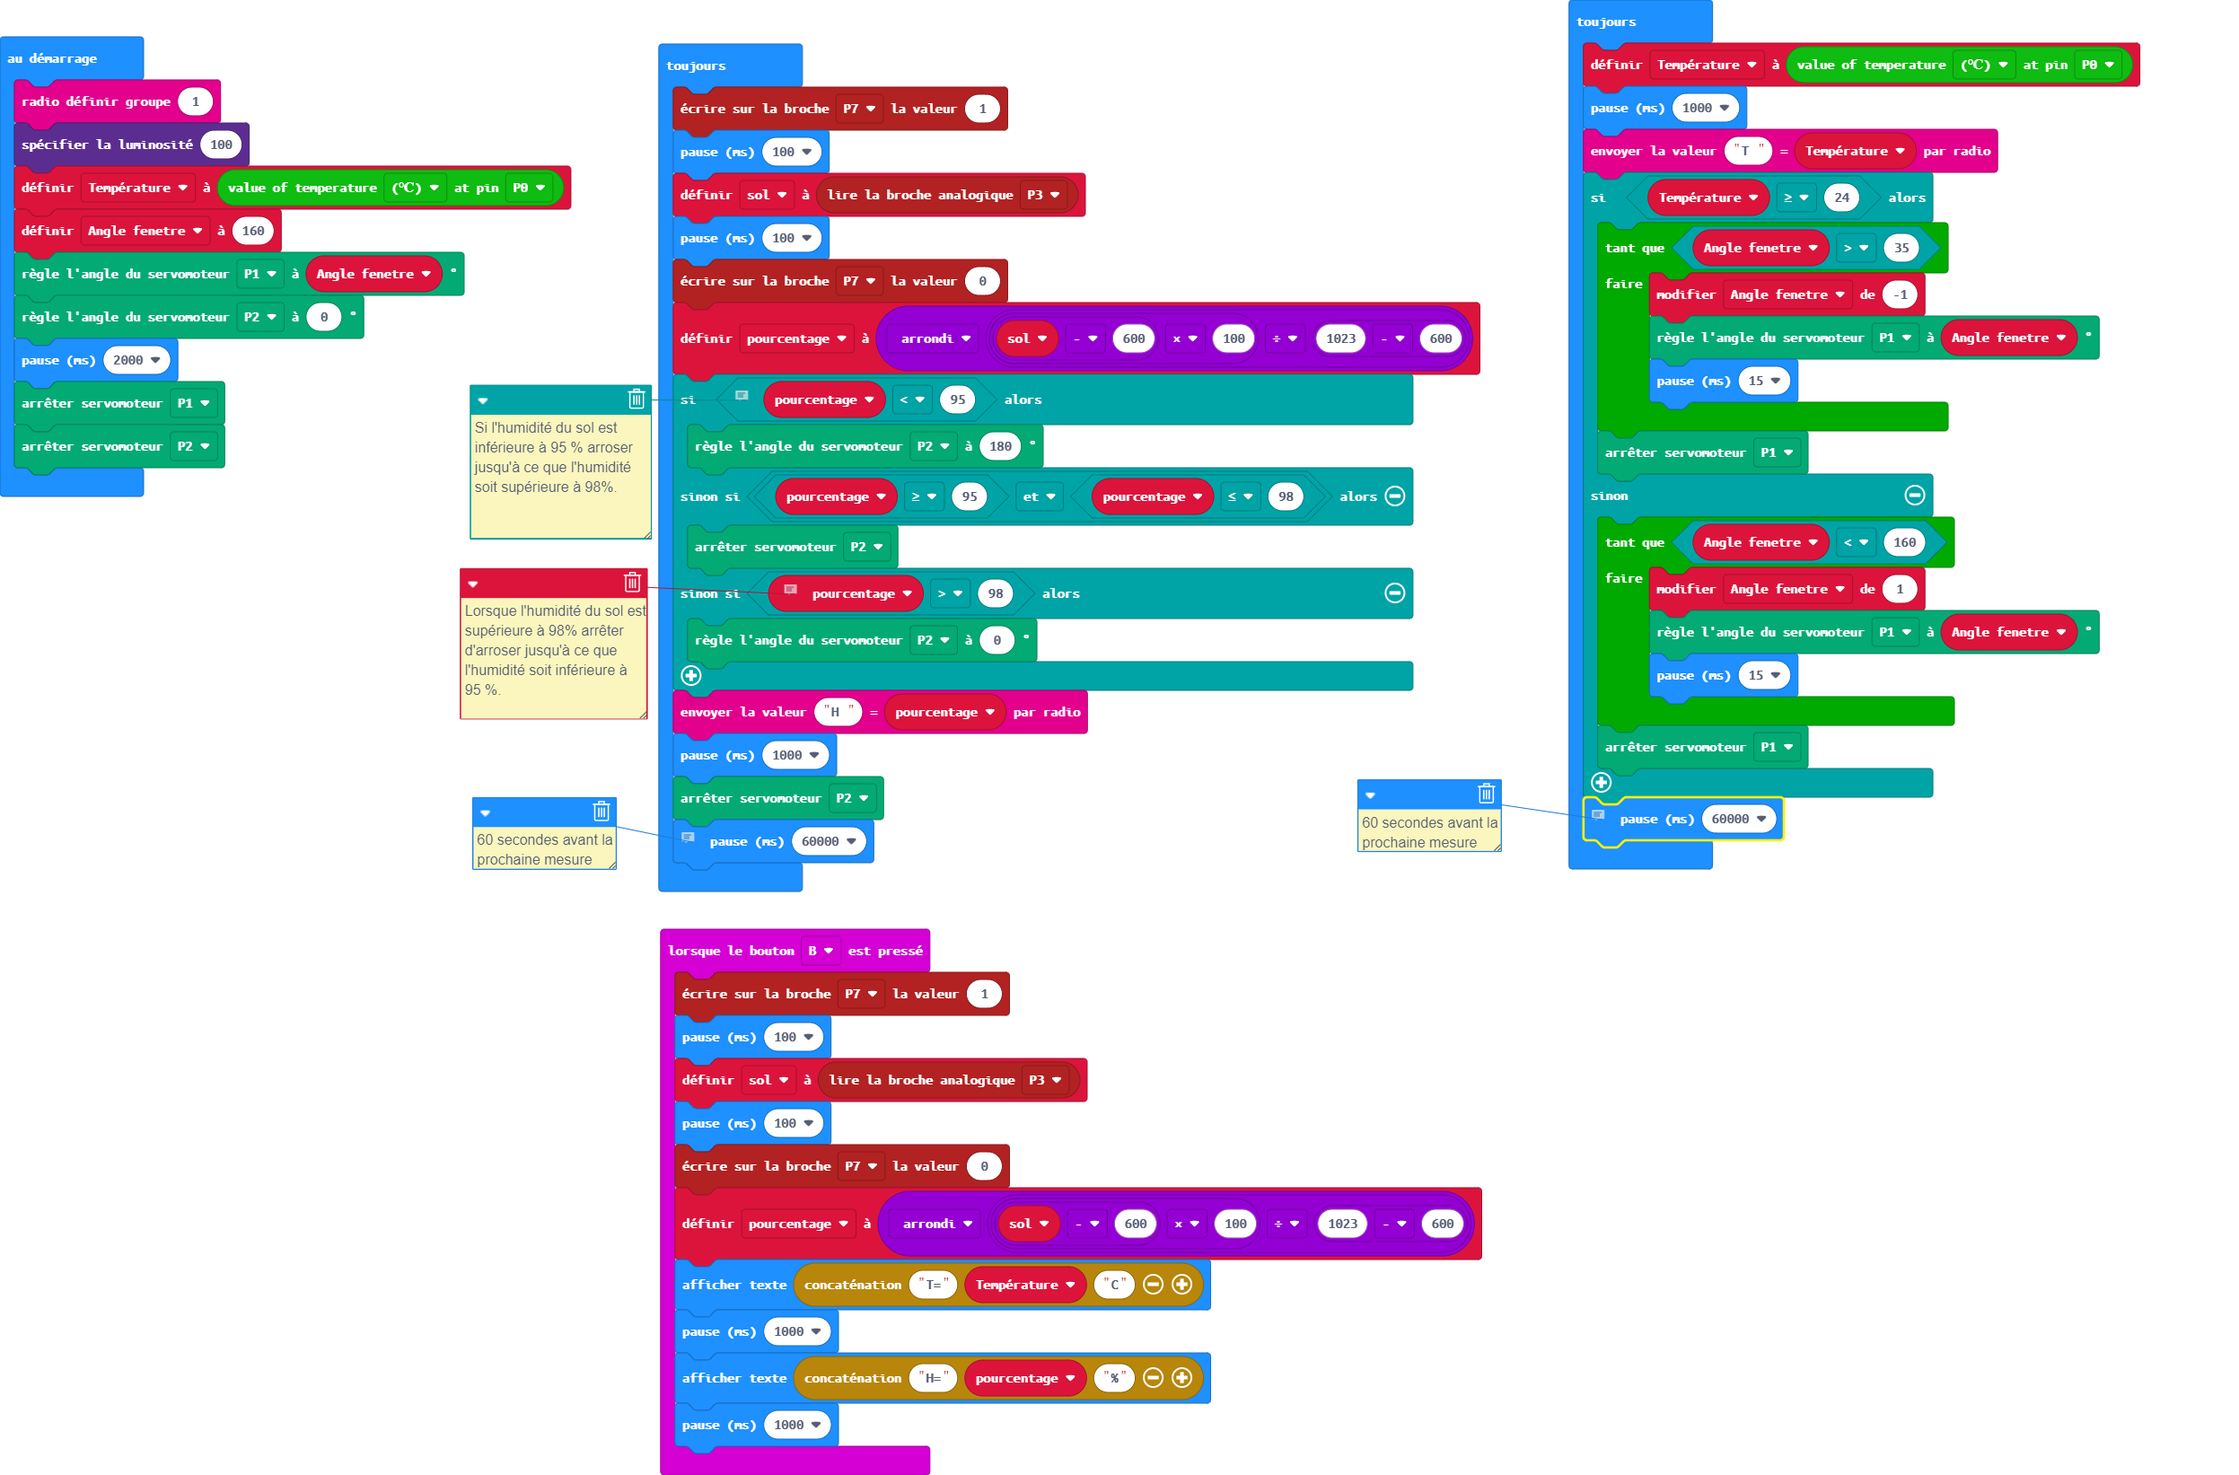
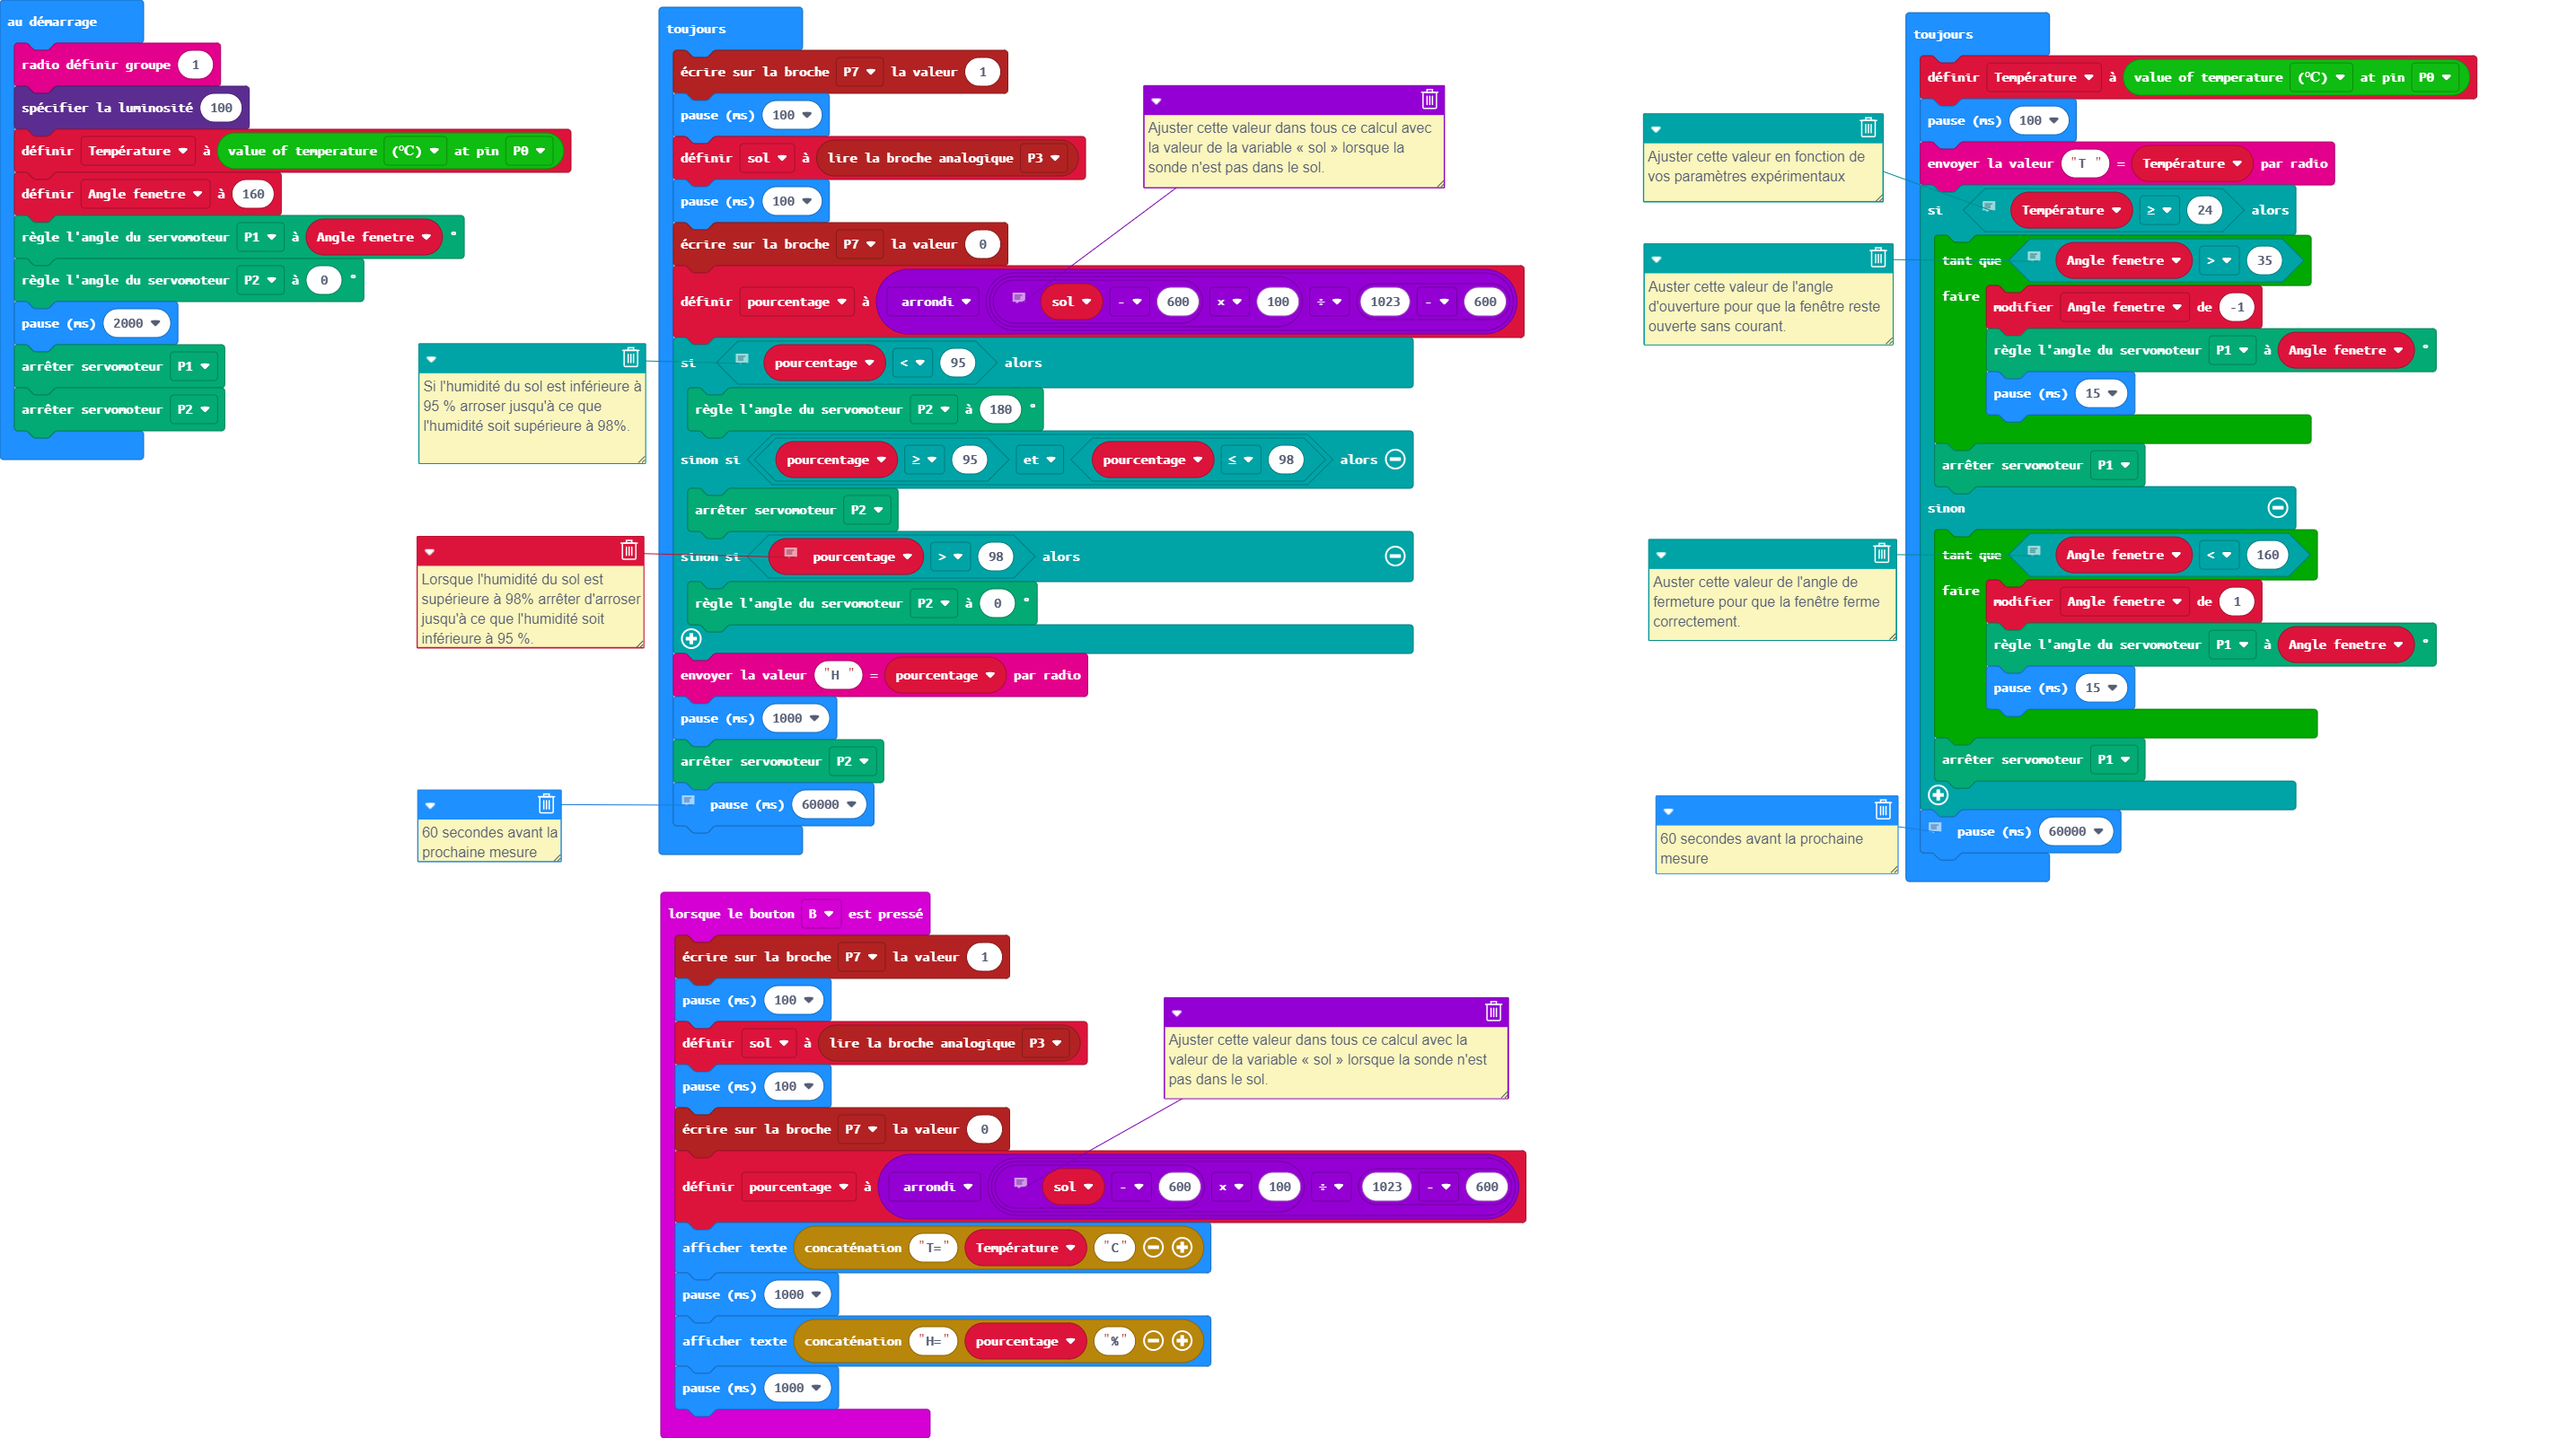
Mise à jour main.blocks, main.ts

diff --git a/main.ts b/main.ts
@@ -4,6 +4,7 @@ input.onButtonPressed(Button.B, function () {
     sol = pins.analogReadPin(AnalogPin.P3)
     basic.pause(100)
     pins.digitalWritePin(DigitalPin.P7, 0)
+    // Ajuster cette valeur dans tous ce calcul avec la valeur de la variable « sol » lorsque la sonde n'est pas dans le sol.
     pourcentage = Math.round((sol - 600) * 100 / (1023 - 600))
     basic.showString("T=" + Température + "C")
     basic.pause(1000)
@@ -28,6 +29,7 @@ basic.forever(function () {
     sol = pins.analogReadPin(AnalogPin.P3)
     basic.pause(100)
     pins.digitalWritePin(DigitalPin.P7, 0)
+    // Ajuster cette valeur dans tous ce calcul avec la valeur de la variable « sol » lorsque la sonde n'est pas dans le sol.
     pourcentage = Math.round((sol - 600) * 100 / (1023 - 600))
     // Si l'humidité du sol est inférieure à 95 % arroser jusqu'à ce que l'humidité soit supérieure à 98%.
     // Lorsque l'humidité du sol est supérieure à 98% arrêter d'arroser jusqu'à ce que l'humidité soit inférieure à 95 %.
@@ -46,9 +48,11 @@ basic.forever(function () {
 })
 basic.forever(function () {
     Température = smarthome.ReadTemperature(TMP36Type.TMP36_temperature_C, AnalogPin.P0)
-    basic.pause(1000)
+    basic.pause(100)
     radio.sendValue("T ", Température)
+    // Ajuster cette valeur en fonction de vos paramètres expérimentaux
     if (Température >= 24) {
+        // Auster cette valeur de l'angle d'ouverture pour que la fenêtre reste ouverte sans courant.
         while (Angle_fenetre > 35) {
             Angle_fenetre += -1
             servos.P1.setAngle(Angle_fenetre)
@@ -56,6 +60,7 @@ basic.forever(function () {
         }
         servos.P1.stop()
     } else {
+        // Auster cette valeur de l'angle de fermeture pour que la fenêtre ferme correctement.
         while (Angle_fenetre < 160) {
             Angle_fenetre += 1
             servos.P1.setAngle(Angle_fenetre)
